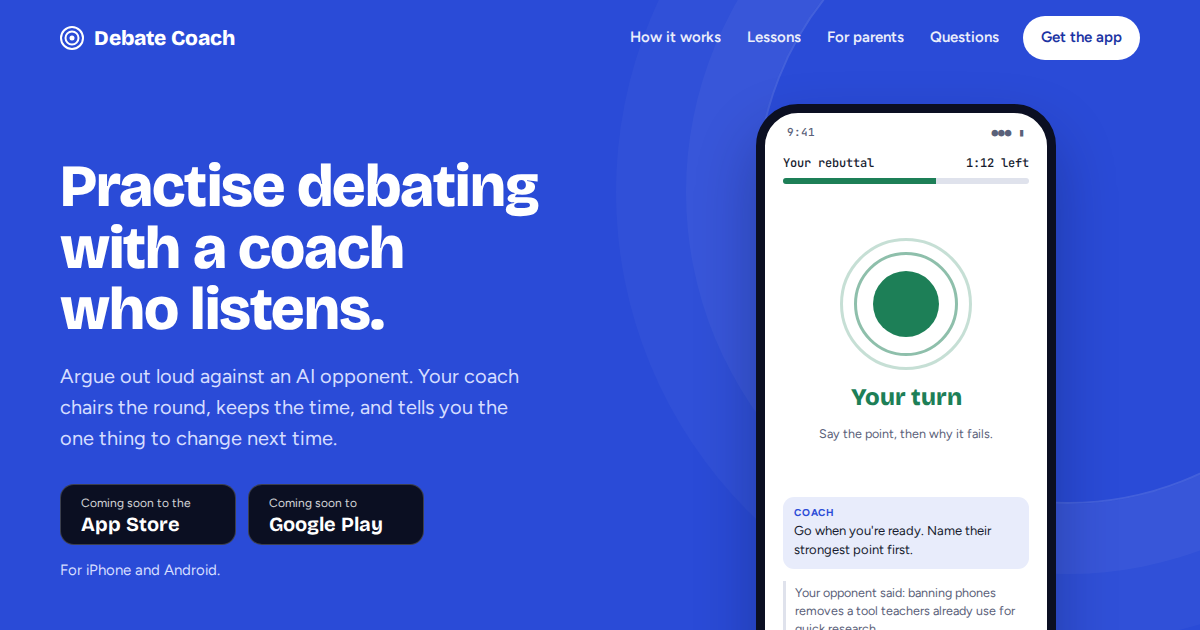
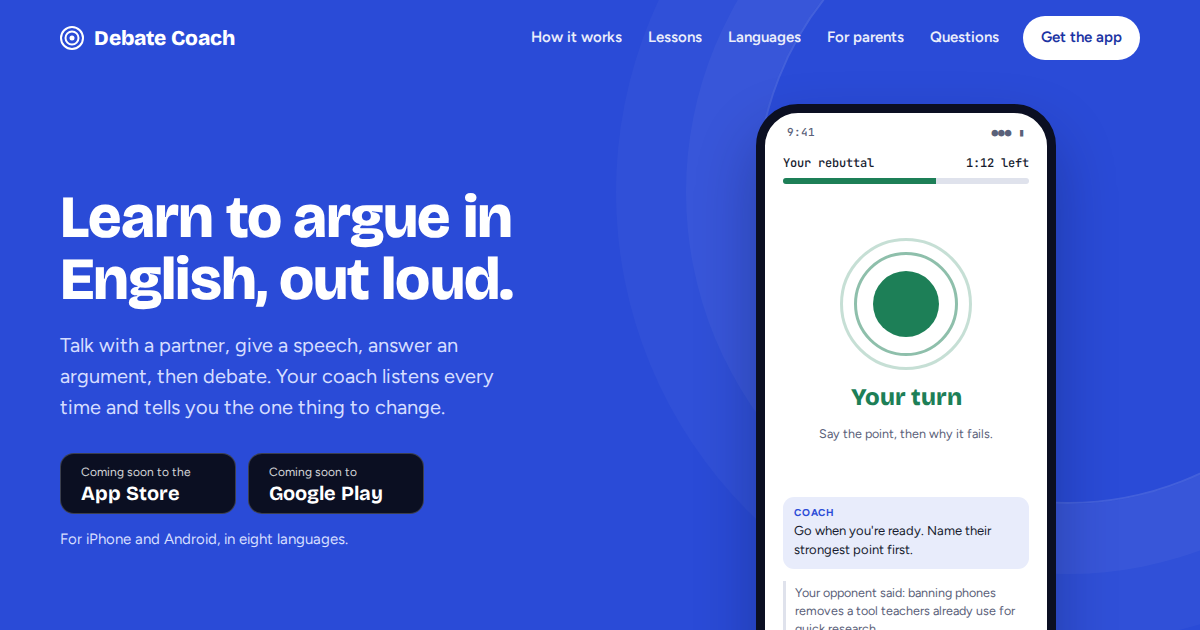
Reposition: learn to argue in English; every format; eight languages; the parent's weekly note

Changed region(s): [[0.0308, 0.2413, 0.4625, 0.9349], [0.4317, 0.0302, 0.6475, 0.0905]]

diff --git a/index.html b/index.html
@@ -3,8 +3,8 @@
 <head>
 <meta charset="utf-8">
 <meta name="viewport" content="width=device-width,initial-scale=1,viewport-fit=cover">
-<title>Debate Coach: practise debating with a coach who listens</title>
-<meta name="description" content="Argue out loud against an AI opponent. Your coach chairs the round, keeps the time, and tells you the one thing to change next time. Coming to iPhone and Android.">
+<title>Debate Coach: learn to argue in English, out loud</title>
+<meta name="description" content="Learn to argue in English, out loud. Conversations, speeches, drills and full debates with a coach who listens, with notes in your family's language. Coming to iPhone and Android.">
 <meta name="theme-color" content="#2a4bd7">
 <link rel="canonical" href="https://debatecoach.app/">
 <link rel="icon" href="favicon.svg" type="image/svg+xml">
@@ -12,7 +12,7 @@
 <meta property="og:type" content="website">
 <meta property="og:url" content="https://debatecoach.app/">
 <meta property="og:title" content="Debate Coach">
-<meta property="og:description" content="Argue out loud against an AI opponent. Your coach chairs the round, keeps the time, and tells you the one thing to change next time. Coming to iPhone and Android.">
+<meta property="og:description" content="Learn to argue in English, out loud. Conversations, speeches, drills and full debates with a coach who listens, with notes in your family's language. Coming to iPhone and Android.">
 <meta property="og:image" content="https://debatecoach.app/og.png">
 <meta name="twitter:card" content="summary_large_image">
 <link rel="preconnect" href="https://fonts.googleapis.com"><link rel="preconnect" href="https://fonts.gstatic.com" crossorigin><link rel="stylesheet" href="https://fonts.googleapis.com/css2?family=Bricolage+Grotesque:opsz,wght@12..96,700;12..96,800&family=Figtree:wght@400;500;600;700&family=JetBrains+Mono:wght@500;600&display=swap">
@@ -189,6 +189,7 @@ footer .links a:hover{text-decoration:underline}
       <nav class="navlinks" aria-label="Main">
         <a href="#how">How it works</a>
         <a href="#lessons">Lessons</a>
+        <a href="#languages">Languages</a>
         <a href="#parents">For parents</a>
         <a href="#faq">Questions</a>
         <a class="navcta" href="#get">Get the app</a>
@@ -196,13 +197,13 @@ footer .links a:hover{text-decoration:underline}
     </div>
     <div class="hero" id="top">
       <div>
-        <h1>Practise debating with a coach who listens.</h1>
-        <p class="lead">Argue out loud against an AI opponent. Your coach chairs the round, keeps the time, and tells you the one thing to change next time.</p>
+        <h1>Learn to argue in English, out loud.</h1>
+        <p class="lead">Talk with a partner, give a speech, answer an argument, then debate. Your coach listens every time and tells you the one thing to change.</p>
         <div class="stores" role="list" aria-label="Where to get the app">
           <div class="store" role="listitem"><small>Coming soon to the</small><b>App Store</b></div>
           <div class="store" role="listitem"><small>Coming soon to</small><b>Google Play</b></div>
         </div>
-        <p class="note">For iPhone and Android.</p>
+        <p class="note">For iPhone and Android, in eight languages.</p>
       </div>
       <div class="hero-phone">
         <div class="phone" role="img" aria-label="The practice room on a phone. It's your turn, with one minute twelve seconds left. The coach says to name their strongest point first.">
@@ -228,13 +229,13 @@ footer .links a:hover{text-decoration:underline}
   <div class="wrap">
     <div class="stack">
       <span class="eyebrow">Four ways to practise</span>
-      <h2 id="kinds-h">Four minutes or thirty. The coach keeps the clock.</h2>
+      <h2 id="kinds-h">Start by talking. Finish in a full round.</h2>
     </div>
     <div class="kindgrid">
-      <div class="kind"><span class="len">4 to 5 min</span><h3>Drill</h3><p>Work on one skill at a time, such as rebuttal or weighing.</p></div>
+      <div class="kind"><span class="len">5 to 15 min</span><h3>Conversation</h3><p>Speak English with a partner who plays a role, like an interviewer.</p></div>
       <div class="kind"><span class="len">2 to 7 min</span><h3>Speech</h3><p>Persuade, explain or tell a story, then hear how it landed.</p></div>
-      <div class="kind"><span class="len">5 to 15 min</span><h3>Conversation</h3><p>Talk with a partner who plays a role, like an interviewer.</p></div>
-      <div class="kind"><span class="len">24 to 32 min</span><h3>One-to-one debate</h3><p>You against one AI opponent, with the coach in the chair.</p></div>
+      <div class="kind"><span class="len">4 to 5 min</span><h3>Drill</h3><p>Work on one skill at a time, such as rebuttal or weighing.</p></div>
+      <div class="kind"><span class="len">24 to 56 min</span><h3>Debate</h3><p>World Schools, British Parliamentary, Public Forum, Lincoln-Douglas and more, against AI debaters.</p></div>
     </div>
   </div>
 </section>
@@ -298,7 +299,37 @@ footer .links a:hover{text-decoration:underline}
   </div>
 </section>
 
-<section class="alt" id="lessons" aria-labelledby="lessons-h">
+<section class="alt" id="languages" aria-labelledby="lang-h">
+  <div class="wrap split">
+    <div class="copy">
+      <span class="eyebrow">Your family's language</span>
+      <h2 id="lang-h">The practice is in English. The coach's notes come in yours.</h2>
+      <p>Every report shows the coach's words in English with your language beside them. A student who's still learning knows exactly what to change, and so does the parent reading over their shoulder.</p>
+      <ul class="ticks">
+        <li>English, 简体中文, 繁體中文, 한국어, 日本語, Tiếng Việt, Español and Português</li>
+        <li>A weekly note to a parent, in the parent's language</li>
+      </ul>
+    </div>
+    <div class="phone" role="img" aria-label="A report in Simplified Chinese and English: the coach's advice in English with the Chinese translation beneath it.">
+      <div class="status"><span>9:41</span><span>●●● ▮</span></div>
+      <div class="screen" lang="zh-Hans">
+        <div style="display:flex;justify-content:space-between;align-items:flex-end"><div><span class="lab">你的报告</span><div class="s-sub" lang="en">Speech, 2 minutes</div></div><div class="score"><span class="n">74</span><span class="d">/100</span></div></div>
+        <div class="card soft">
+          <span class="lab">继续保持</span>
+          <div style="font-size:13px" lang="en">Keep pairing a claim with a direct answer to the likely objection.</div>
+          <div style="font-size:12.5px;color:var(--muted);border-left:3px solid var(--line);padding-left:8px">继续保持这个好习惯：提出观点时，紧接着直接回应对方可能的反对意见。</div>
+          <span class="lab">下次改进</span>
+          <div style="font-size:13px" lang="en">Make sure every sentence argues the topic you were given.</div>
+          <div style="font-size:12.5px;color:var(--muted);border-left:3px solid var(--line);padding-left:8px">下次请确保你说的每一句话都在论证给你的辩题。</div>
+        </div>
+        <span class="lab">再说一遍</span>
+        <div class="chips" lang="en"><span class="chip">evidence</span><span class="chip">therefore</span><span class="chip">regulation</span></div>
+      </div>
+    </div>
+  </div>
+</section>
+
+<section id="lessons" aria-labelledby="lessons-h">
   <div class="wrap split flip">
     <div class="phone" role="img" aria-label="A lesson called Rebuttal: say why it fails, with a four-minute video, a short text, a check question and a button to practise it.">
       <div class="status"><span>9:41</span><span>●●● ▮</span></div>
@@ -325,7 +356,7 @@ footer .links a:hover{text-decoration:underline}
   </div>
 </section>
 
-<section aria-labelledby="next-h">
+<section class="alt" aria-labelledby="next-h">
   <div class="wrap split">
     <div class="copy">
       <span class="eyebrow">What to practise next</span>
@@ -354,7 +385,7 @@ footer .links a:hover{text-decoration:underline}
   </div>
 </section>
 
-<section class="alt" id="parents" aria-labelledby="parents-h">
+<section id="parents" aria-labelledby="parents-h">
   <div class="wrap">
     <div class="stack">
       <span class="eyebrow">For parents</span>
@@ -363,7 +394,7 @@ footer .links a:hover{text-decoration:underline}
     <div class="parents">
       <div><h3>Practice with AI only</h3><p>The opponent and the coach are AI. Your child never talks to another person in the app.</p></div>
       <div><h3>Recordings stay in the account</h3><p>Each practice is recorded so the coach can write the report. It's kept in your child's account.</p></div>
-      <div><h3>The skills a judge marks</h3><p>Reports mark argument, rebuttal, structure and delivery the way a debate judge would.</p></div>
+      <div><h3>A note every week</h3><p>Turn on a weekly note to a parent: what was practised, for how long, and what the coach is working on.</p></div>
     </div>
   </div>
 </section>
@@ -376,13 +407,14 @@ footer .links a:hover{text-decoration:underline}
     </div>
     <div class="faq">
       <div>
-        <details open><summary>Who is Debate Coach for?</summary><p>It's for students who want to debate and speak better, from a first debate club to competition. Adults use it too.</p></details>
+        <details open><summary>Who is Debate Coach for?</summary><p>It's for students learning to speak and argue in English, from a first conversation to a full World Schools round.</p></details>
         <details><summary>Do I need any experience?</summary><p>No. The coach explains each round before it starts and gives an example the first time you try something new.</p></details>
         <details><summary>What do I need?</summary><p>You need a phone and a quiet place to talk. Earphones help, but you don't need them.</p></details>
       </div>
       <div>
         <details><summary>Do I talk to real people?</summary><p>No. Your opponent and your coach are AI, so you can practise whenever you like.</p></details>
         <details><summary>How much does it cost?</summary><p>Prices will be in the App Store and Google Play when the app launches.</p></details>
+        <details><summary>Which languages does it speak?</summary><p>The practice is always in English. The app and the coach's notes also come in Chinese, Korean, Japanese, Vietnamese, Spanish and Portuguese.</p></details>
         <details><summary>When is it available?</summary><p>Debate Coach is in testing now. It's coming to iPhone and Android.</p></details>
       </div>
     </div>

diff --git a/src/body.html b/src/body.html
@@ -169,6 +169,7 @@ footer .links a:hover{text-decoration:underline}
       <nav class="navlinks" aria-label="Main">
         <a href="#how">How it works</a>
         <a href="#lessons">Lessons</a>
+        <a href="#languages">Languages</a>
         <a href="#parents">For parents</a>
         <a href="#faq">Questions</a>
         <a class="navcta" href="#get">Get the app</a>
@@ -176,13 +177,13 @@ footer .links a:hover{text-decoration:underline}
     </div>
     <div class="hero" id="top">
       <div>
-        <h1>Practise debating with a coach who listens.</h1>
-        <p class="lead">Argue out loud against an AI opponent. Your coach chairs the round, keeps the time, and tells you the one thing to change next time.</p>
+        <h1>Learn to argue in English, out loud.</h1>
+        <p class="lead">Talk with a partner, give a speech, answer an argument, then debate. Your coach listens every time and tells you the one thing to change.</p>
         <div class="stores" role="list" aria-label="Where to get the app">
           <div class="store" role="listitem"><small>Coming soon to the</small><b>App Store</b></div>
           <div class="store" role="listitem"><small>Coming soon to</small><b>Google Play</b></div>
         </div>
-        <p class="note">For iPhone and Android.</p>
+        <p class="note">For iPhone and Android, in eight languages.</p>
       </div>
       <div class="hero-phone">
         <div class="phone" role="img" aria-label="The practice room on a phone. It's your turn, with one minute twelve seconds left. The coach says to name their strongest point first.">
@@ -208,13 +209,13 @@ footer .links a:hover{text-decoration:underline}
   <div class="wrap">
     <div class="stack">
       <span class="eyebrow">Four ways to practise</span>
-      <h2 id="kinds-h">Four minutes or thirty. The coach keeps the clock.</h2>
+      <h2 id="kinds-h">Start by talking. Finish in a full round.</h2>
     </div>
     <div class="kindgrid">
-      <div class="kind"><span class="len">4 to 5 min</span><h3>Drill</h3><p>Work on one skill at a time, such as rebuttal or weighing.</p></div>
+      <div class="kind"><span class="len">5 to 15 min</span><h3>Conversation</h3><p>Speak English with a partner who plays a role, like an interviewer.</p></div>
       <div class="kind"><span class="len">2 to 7 min</span><h3>Speech</h3><p>Persuade, explain or tell a story, then hear how it landed.</p></div>
-      <div class="kind"><span class="len">5 to 15 min</span><h3>Conversation</h3><p>Talk with a partner who plays a role, like an interviewer.</p></div>
-      <div class="kind"><span class="len">24 to 32 min</span><h3>One-to-one debate</h3><p>You against one AI opponent, with the coach in the chair.</p></div>
+      <div class="kind"><span class="len">4 to 5 min</span><h3>Drill</h3><p>Work on one skill at a time, such as rebuttal or weighing.</p></div>
+      <div class="kind"><span class="len">24 to 56 min</span><h3>Debate</h3><p>World Schools, British Parliamentary, Public Forum, Lincoln-Douglas and more, against AI debaters.</p></div>
     </div>
   </div>
 </section>
@@ -278,7 +279,37 @@ footer .links a:hover{text-decoration:underline}
   </div>
 </section>
 
-<section class="alt" id="lessons" aria-labelledby="lessons-h">
+<section class="alt" id="languages" aria-labelledby="lang-h">
+  <div class="wrap split">
+    <div class="copy">
+      <span class="eyebrow">Your family's language</span>
+      <h2 id="lang-h">The practice is in English. The coach's notes come in yours.</h2>
+      <p>Every report shows the coach's words in English with your language beside them. A student who's still learning knows exactly what to change, and so does the parent reading over their shoulder.</p>
+      <ul class="ticks">
+        <li>English, 简体中文, 繁體中文, 한국어, 日本語, Tiếng Việt, Español and Português</li>
+        <li>A weekly note to a parent, in the parent's language</li>
+      </ul>
+    </div>
+    <div class="phone" role="img" aria-label="A report in Simplified Chinese and English: the coach's advice in English with the Chinese translation beneath it.">
+      <div class="status"><span>9:41</span><span>●●● ▮</span></div>
+      <div class="screen" lang="zh-Hans">
+        <div style="display:flex;justify-content:space-between;align-items:flex-end"><div><span class="lab">你的报告</span><div class="s-sub" lang="en">Speech, 2 minutes</div></div><div class="score"><span class="n">74</span><span class="d">/100</span></div></div>
+        <div class="card soft">
+          <span class="lab">继续保持</span>
+          <div style="font-size:13px" lang="en">Keep pairing a claim with a direct answer to the likely objection.</div>
+          <div style="font-size:12.5px;color:var(--muted);border-left:3px solid var(--line);padding-left:8px">继续保持这个好习惯：提出观点时，紧接着直接回应对方可能的反对意见。</div>
+          <span class="lab">下次改进</span>
+          <div style="font-size:13px" lang="en">Make sure every sentence argues the topic you were given.</div>
+          <div style="font-size:12.5px;color:var(--muted);border-left:3px solid var(--line);padding-left:8px">下次请确保你说的每一句话都在论证给你的辩题。</div>
+        </div>
+        <span class="lab">再说一遍</span>
+        <div class="chips" lang="en"><span class="chip">evidence</span><span class="chip">therefore</span><span class="chip">regulation</span></div>
+      </div>
+    </div>
+  </div>
+</section>
+
+<section id="lessons" aria-labelledby="lessons-h">
   <div class="wrap split flip">
     <div class="phone" role="img" aria-label="A lesson called Rebuttal: say why it fails, with a four-minute video, a short text, a check question and a button to practise it.">
       <div class="status"><span>9:41</span><span>●●● ▮</span></div>
@@ -305,7 +336,7 @@ footer .links a:hover{text-decoration:underline}
   </div>
 </section>
 
-<section aria-labelledby="next-h">
+<section class="alt" aria-labelledby="next-h">
   <div class="wrap split">
     <div class="copy">
       <span class="eyebrow">What to practise next</span>
@@ -334,7 +365,7 @@ footer .links a:hover{text-decoration:underline}
   </div>
 </section>
 
-<section class="alt" id="parents" aria-labelledby="parents-h">
+<section id="parents" aria-labelledby="parents-h">
   <div class="wrap">
     <div class="stack">
       <span class="eyebrow">For parents</span>
@@ -343,7 +374,7 @@ footer .links a:hover{text-decoration:underline}
     <div class="parents">
       <div><h3>Practice with AI only</h3><p>The opponent and the coach are AI. Your child never talks to another person in the app.</p></div>
       <div><h3>Recordings stay in the account</h3><p>Each practice is recorded so the coach can write the report. It's kept in your child's account.</p></div>
-      <div><h3>The skills a judge marks</h3><p>Reports mark argument, rebuttal, structure and delivery the way a debate judge would.</p></div>
+      <div><h3>A note every week</h3><p>Turn on a weekly note to a parent: what was practised, for how long, and what the coach is working on.</p></div>
     </div>
   </div>
 </section>
@@ -356,13 +387,14 @@ footer .links a:hover{text-decoration:underline}
     </div>
     <div class="faq">
       <div>
-        <details open><summary>Who is Debate Coach for?</summary><p>It's for students who want to debate and speak better, from a first debate club to competition. Adults use it too.</p></details>
+        <details open><summary>Who is Debate Coach for?</summary><p>It's for students learning to speak and argue in English, from a first conversation to a full World Schools round.</p></details>
         <details><summary>Do I need any experience?</summary><p>No. The coach explains each round before it starts and gives an example the first time you try something new.</p></details>
         <details><summary>What do I need?</summary><p>You need a phone and a quiet place to talk. Earphones help, but you don't need them.</p></details>
       </div>
       <div>
         <details><summary>Do I talk to real people?</summary><p>No. Your opponent and your coach are AI, so you can practise whenever you like.</p></details>
         <details><summary>How much does it cost?</summary><p>Prices will be in the App Store and Google Play when the app launches.</p></details>
+        <details><summary>Which languages does it speak?</summary><p>The practice is always in English. The app and the coach's notes also come in Chinese, Korean, Japanese, Vietnamese, Spanish and Portuguese.</p></details>
         <details><summary>When is it available?</summary><p>Debate Coach is in testing now. It's coming to iPhone and Android.</p></details>
       </div>
     </div>
